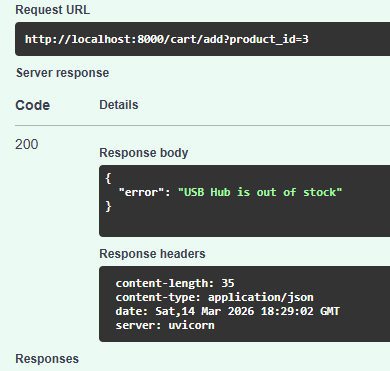
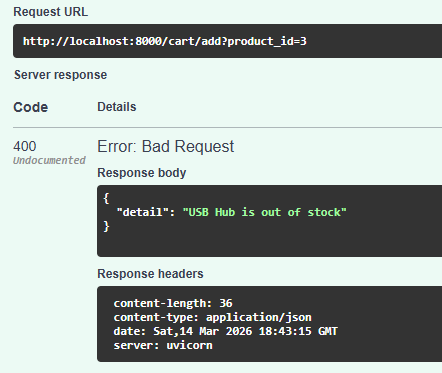
Assignment-4 Q5

Changed region(s): [[0.0308, 0.2668, 1.0, 0.9784], [0.0308, 0.0, 1.0, 0.2372], [0.2154, 0.2668, 0.3692, 0.2965]]

diff --git a/IN226095102_FASTAPI/Assignment-4/main.py b/IN226095102_FASTAPI/Assignment-4/main.py
@@ -1,4 +1,4 @@
-from fastapi import FastAPI, Query, Response, status
+from fastapi import FastAPI, Query, Response, status, HTTPException
 
 from pydantic import BaseModel, Field
 
@@ -372,11 +372,11 @@ def add_to_cart(
 
     if not product:
 
-        return {'error': 'Product not found'}
+        raise HTTPException(status_code=404, detail="Product not found")
 
     if not product['in_stock']:
-
-        return {'error': f"{product['name']} is out of stock"}
+        
+        raise HTTPException( status_code=400, detail=f"{product['name']} is out of stock" )
 
     if quantity < 1:
 
@@ -517,3 +517,4 @@ def remove_from_cart(product_id: int, response: Response):
     response.status_code = status.HTTP_404_NOT_FOUND
 
     return {'error': 'Product not in cart'}
+
